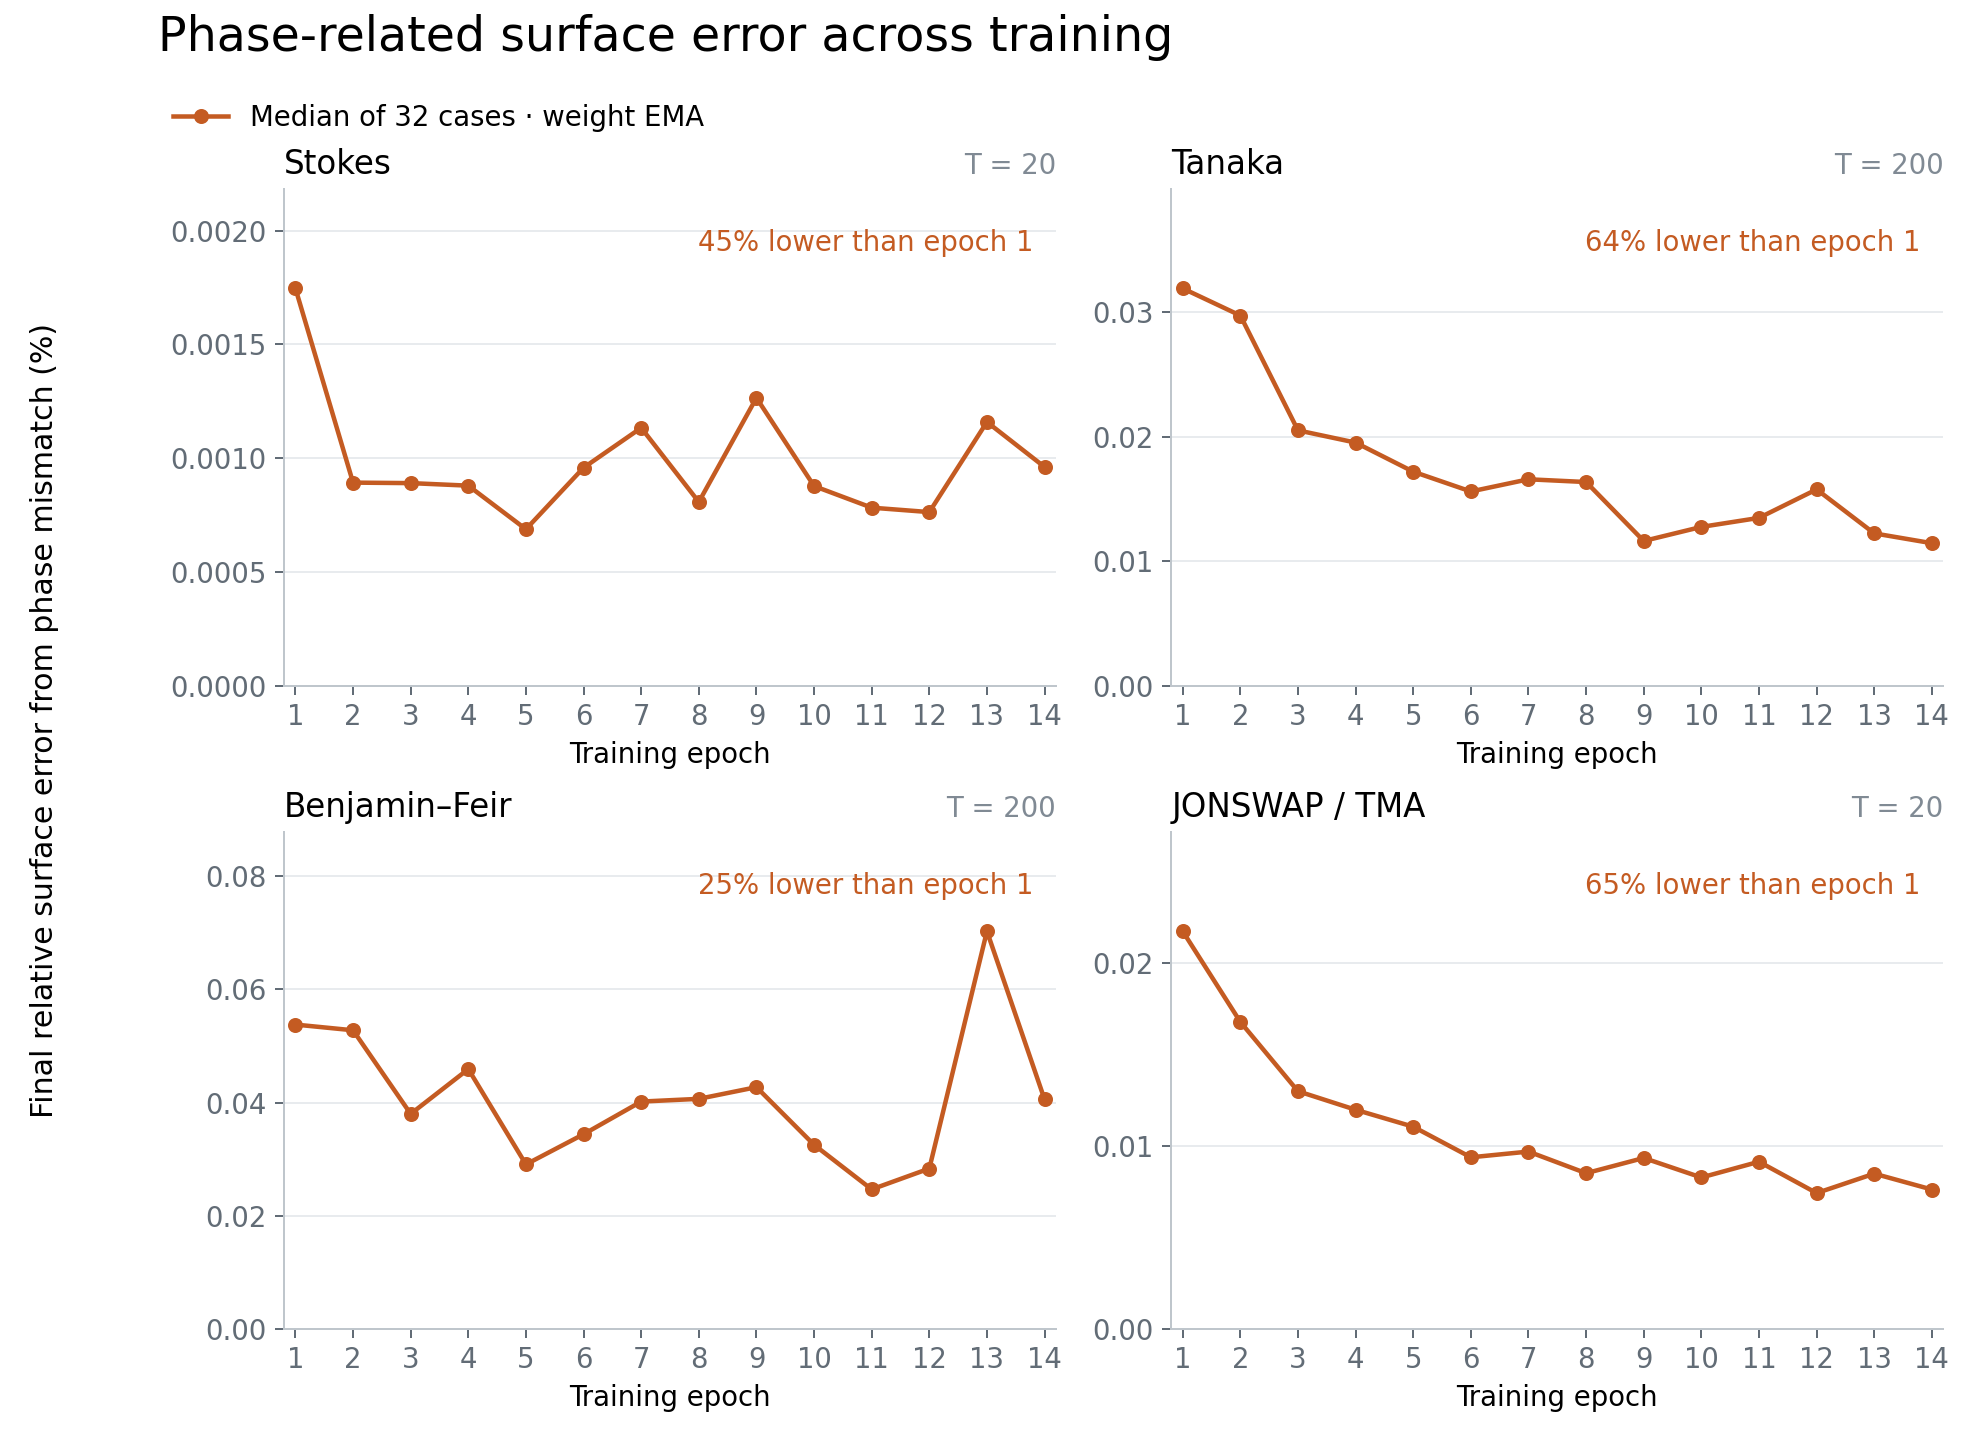
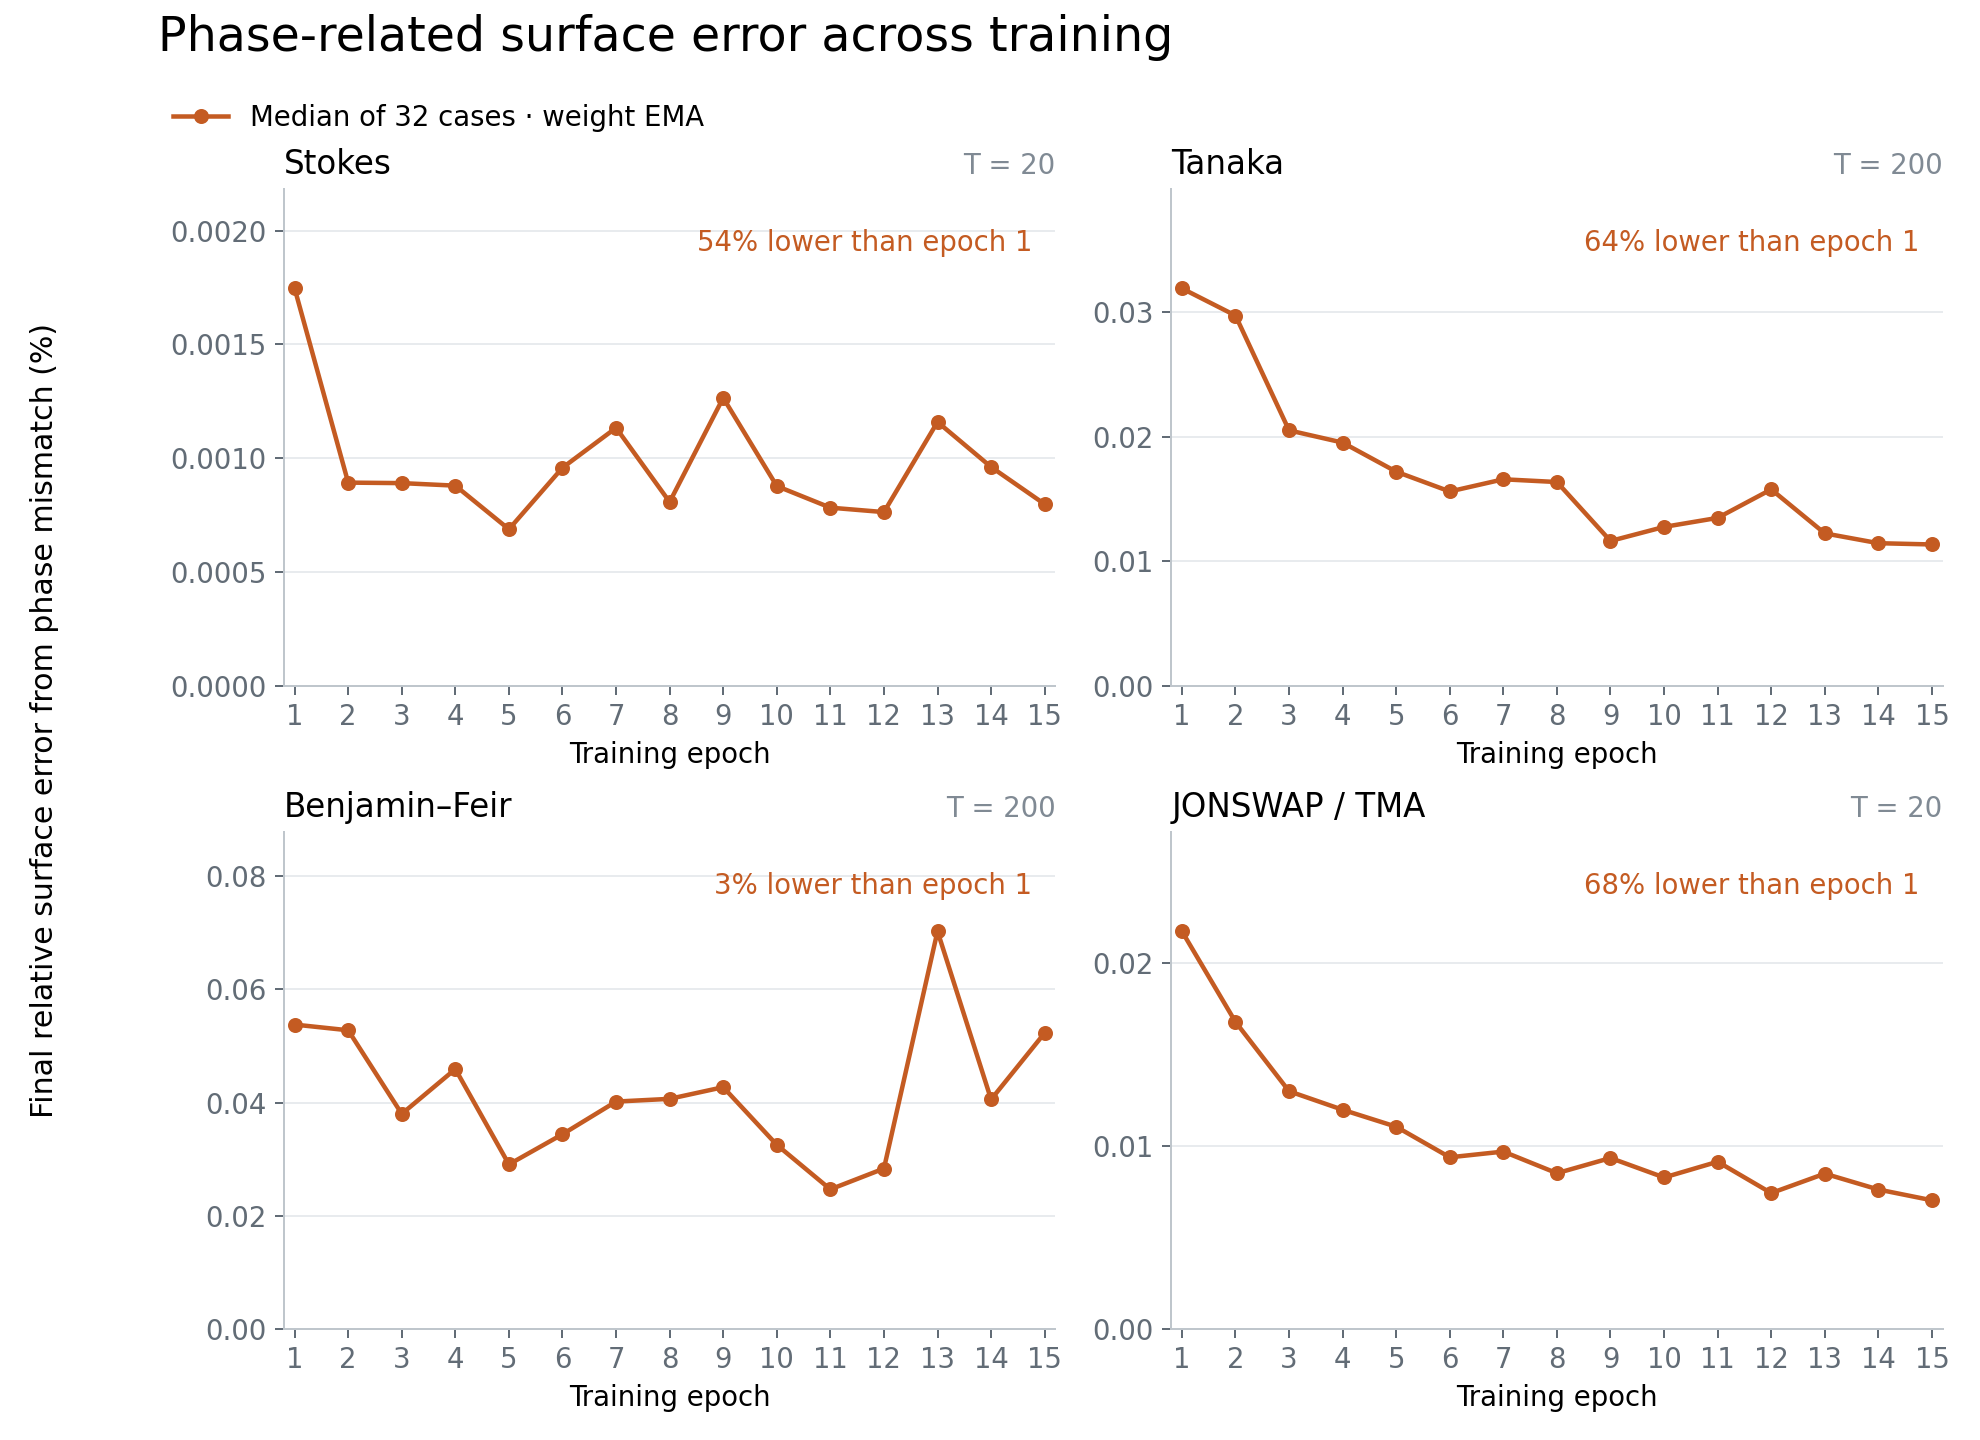
Record epoch15 EMA evaluation and extend phase-training plot

diff --git a/paper-plots/plot_phase_diagnostics.py b/paper-plots/plot_phase_diagnostics.py
@@ -75,7 +75,7 @@ def main() -> None:
         "pdf.fonttype": 42, "ps.fonttype": 42,
     })
     if args.phase_training:
-        epochs = np.arange(1, 15)
+        epochs = np.arange(1, 16)
         evaluations = [
             ROOT / "outputs/c27_phase1_lr8_momentum_half_ema995_grad05_adam05_b2099_batch16_hd04_band128_nested1_gamma32_full_20261012/eval_fast_weight_ema_nestedfused_contextbatch",
             *(ROOT / f"outputs/c27_nested_b16_ema_low_lr_continue_20261014/eval_epoch{epoch}_weight_ema" for epoch in (2, 3)),

diff --git a/experiments/experiments-2026-10-15.md b/experiments/experiments-2026-10-15.md
@@ -1,6 +1,6 @@
 # Experiments — 2026-10-15
 
-Epoch 14 of the approved low-LR continuation completed; epoch 15 resumed automatically. Epoch 14 recovers from epoch13 but remains7.18% worse in paired surface error than retained epoch10. Tanaka/JON improve versus10 while Stokes/BF regress. Best EMA validation is14, with patience0/5. Figure22 includes epochs1–14; Figure12c uses epoch10 EMA accuracy with unchanged current-path Ada timings. Figure12 retains epoch7 Ada accuracy; Blackwell and A100 retain their previous measurements.
+Epoch 15 of the approved low-LR continuation completed; epoch 16 resumed automatically. Epoch 15 is 13.8% worse in paired surface error than retained epoch 10, chiefly from Benjamin–Feir, despite a new best EMA validation score. Best validation is 15, with patience 0/5. Figure 22 includes epochs 1–15; Figure 12c keeps epoch-10 EMA accuracy with unchanged current-path Ada timings. Figure 12 retains epoch-7 Ada accuracy; Blackwell and A100 retain their previous measurements.
 
 | Date | Time | File / Variant | Motivation | What Tried / Evidence | Correctness | Timing | Decision |
 | --- | --- | --- | --- | --- | --- | --- | --- |
@@ -36,3 +36,4 @@ Epoch 14 of the approved low-LR continuation completed; epoch 15 resumed automat
 | 2026-10-15 | 16:42 | Figure 12c: best evaluated EMA epoch | User requested the Ada runtime/error plot use the best epoch rather than the previous epoch7. | Replaced only the candidate accuracy and legend with epoch10 primary weight EMA. Independently confirmed it remains the best completed checkpoint through13 by pooled paired terminal eta error across128 cases; epoch14 evaluation not yet available. Fixed plotted-case errors percent S/T/BF/J: .000177626729/.297087219721/.045160528829/.028172284875. Kept measured same-path B1 times1.555725211/15.307572914/15.304878696/1.560811040 seconds, classical points and old rollout-supervised overlay. | Timed IDs match classical and saved epoch10 evaluation cases. Architecture/inference path unchanged. PNG visually inspected; README render command updated; no plotter or training edits. These remain single-case points, not family medians. | CPU rendering and verification16:41–16:42; no new rollout, GPU or timing run. | MERGE Figure12c PNG/PDF and documentation. Figure12 and other figures unchanged; retain epoch10 as aggregate rollout best. |
 | 2026-10-15 | 16:55 | Epoch14 primary-EMA evaluation and Figure22 refresh | Test whether continued training recovers the epoch13 phase regression and improves on retained epoch10, without changing the approved recipe. | Validation selection1.437841920e-5 is4.406% below previous best12; retained-data1.260643908e-5 improves4.500%. All128 EMA rollouts complete. Terminal eta medians/p95 percent S/T/BF/J: .000964155/.012494488, .017127647/.158671737, .043149256/.132597735, .009713497/.076648873. Pooled paired eta/xi14/10=1.071808/1.066952 (70/72 wins),14/13=.732605/.720642 (90/94 wins),14/1=.541728/.536696 (102/101 wins). Eta14/M2=.253227 (93wins),14/M3=1.067091 (65wins). Family eta14/10=1.526073/.758352/1.305560/.873424: Tanaka/JON improve, Stokes/BF regress. Tanaka14/M3=.819947, though only15/32 eta wins. Tracked Tanaka3687197/3686647 improve to.396071/.105992%. Whole-trajectory eta14/10=1.085589,14/1=.542081. Phase14/10=1.100994 versus amplitude.913069; family phase14/10=1.543652/.796089/1.335776/.895147. Stokes amplitude stays1.001721 while phase worsens. Figure22 extends through14; phase medians percent .000961534/.011451827/.040542151/.007606626, all lower than13. | All128 ordered IDs/times/depths match; valid finite references/predictions, minimum fluid depth.011970300584. Independent terminal norms agree within1.99e-13; root independently reproduces pooled/family eta, trajectory and exact sine-half-angle phase split, including phase squared plus amplitude squared equals total squared error. Latest/best/primaryEMA export14 counters10322130; all52 EMA arrays match full-state shadows. History and both EMAs preserved; LR8e-6, gradientEMA.5, weightEMA.995 unchanged. Best validation14,patience0/5. Figure22 inspected; Python compilation and diff checks pass. | Training02:00; validation/export16:49; all EMA rollouts complete and epoch15 resumed16:53 with restoredstep10322130. CPU audits/render16:53–16:55. | MERGE Figure22/log refresh; retain epoch10 as overall rollout best and leave Figure12c on10. Epoch14 is a substantial recovery, not a new aggregate rollout best. Continue approved training and per-epoch EMA evaluation; no new arm, raw evaluation, GPU timing or setting change. Sustained60–120-epoch transfer remains unproven. |
 | 2026-10-15 | 17:56 | Recover approved hero-run epoch-boundary supervision | Preserve the approved continuation/evaluation schedule after the monitoring session disappeared, without duplicating or interrupting active training. | At17:51 the monitor wait was interrupted; exec cell5135 and launcher session95505 were subsequently missing. Host inspection found the epoch15 trainer2103399 still running on GPU0 under uv2103396, now parented toPID1; no launcher or evaluator remained. Restored only boundary supervision at17:55 in tmux session dno-hero-continuation-20261015 (pane2229602). The inline command reuses the existing launcher environment and loop body, waits for both original processes to exit or become zombies, requires latest and primaryEMA metadata at15, skips training at15, evaluates its128 EMA trajectories, applies existing patience5, then continues unchanged at16 through60. | Bash syntax check and independent host/process/command audit passed. Exactly one trainer; recovery monitor alive waiting on sleep15. Same GPU0 UUID, memory cap, full-state resume, LR, losses, optimizer and EMAs. No checkpoint copying/reset, new experiment, signal, training restart, code file edit or interference with GPU1. Original trainer continued from47% to50% during recovery. | Read-only diagnosis17:52–17:54; monitor restored17:55 and verified17:55–17:56. Active epoch15 uninterrupted. | KEEP recovered boundary supervision. Session95505 is no longer usable; monitor through the live tmux pane and host PIDs. Epoch10 remains aggregate rollout best; epoch15 EMA evaluation is still pending. |
+| 2026-10-15 | 19:07 | Epoch 15 primary-EMA evaluation and Figure 22 refresh | Test whether continued low-LR training sustains the first-epoch gains and improves on the retained epoch-10 rollout checkpoint. | EMA validation selection 1.408588006e-5 improves 2.035% versus 14; retained data 1.233876548e-5 improves 2.123%, with all four family contributions lower. All 128 EMA rollouts complete. Terminal eta medians/p95 percent S/T/BF/J: .000871070/.012501966, .013845909/.293824493, .053639610/.126279560, .009676703/.071478121. Paired pooled eta/xi 15/10=1.138185/1.147098 (61/59 wins), 15/14=1.061930/1.075116 (63/63), 15/1=.575277/.577011 (96/94). Eta/M2=.268910 (96 wins), eta/M3=1.133177 (64). Family eta15/10=1.051315/1.071242/1.702359/.875346: BF is the main regression; JON improves. Whole-trajectory eta15/10=1.129852, 15/1=.564183. Phase15/10 pooled=1.143937 versus amplitude=1.064986; family phase ratios .921201/1.202937/1.761899/.877060. Phase medians percent .000798205/.011350940/.052289985/.007017700; versus14, S/T/J medians fall17.0/.9/7.7%, while BF rises29.0%. Figure22 extends through15; Figure12c remains on10. | All128 ordered IDs/times/depths match; all truth-valid, saved eta/xi/q finite, no failure flags, minimum fluid depth .011970300376. Independent terminal eta/xi/q norms reproduce saved errors exactly. Root independently reproduces eta ratios, whole-trajectory errors and the direct sine-half-angle Fourier phase decomposition; phase squared plus amplitude squared equals total squared error. Latest/best/export all15; full-state, gradientEMA, Adam, LR, export and best counters11059425=15*737295; all52 EMA arrays/40384 scalars exactly match. LR8e-6, gradientEMA.5, weightEMA.995 and activation589836 unchanged; best validation15, patience0/5. Plot visually inspected; compilation and diff checks pass. | Training02:04, completed18:57; EMA validation/export19:00; 128-rollout evaluation19:00–19:04. Recovered tmux supervisor successfully launched epoch16 at19:04, preserving full state. CPU audits and plot refresh19:01–19:07. | MERGE Figure22 and log refresh; retain10 as aggregate rollout best. Epoch15 preserves a substantial gain versus1 but is13.8% worse than10, despite better validation. Keep approved continuation/EMA evaluations unchanged; no new arm, raw evaluation, timing measurement or setting change. Sustained60–120-epoch transfer remains unproven. |

diff --git a/paper-plots/README.md b/paper-plots/README.md
@@ -435,7 +435,7 @@ UV_CACHE_DIR=/tmp/codex-uv-cache uv run --no-sync paper-plots/plot_neural_advant
 
 Figure 12c compares the Ada classical solver, epoch-10 EMA candidate, and older
 rollout-supervised network. Epoch 10 is the best overall evaluated checkpoint
-through epoch 14 by pooled paired terminal surface error across the 128 cases;
+through epoch 15 by pooled paired terminal surface error across the 128 cases;
 each panel still displays the fixed timed case, not the family median. Runtime
 measurements are unchanged for the same inference path. It omits the RMS/context
 and spectral-DNO models and historical timing annotations:
@@ -760,15 +760,16 @@ OPENBLAS_NUM_THREADS=1 OMP_NUM_THREADS=1 UV_CACHE_DIR=/tmp/dno-uv-cache \
 [PNG](figures/22-phase-error-vs-training.png) / [PDF](figures/22-phase-error-vs-training.pdf)
 
 Terminal Fourier-phase error for primary weight-EMA checkpoints at every epoch
-from 1 through 14, using the same 32 cases per family. The y axis uses Figure 20's
+from 1 through 15, using the same 32 cases per family. The y axis uses Figure 20's
 relative-error magnitude, not the percentage of total squared error. Each point
 is the median of `100*sqrt(phase_energy/reference_energy)` at the final rollout
-time. At epoch 14, the reductions versus epoch 1 are 44.9%, 64.1%, 24.6% and
-65.0% for Stokes, Tanaka, Benjamin–Feir and JONSWAP/TMA. All fourteen measurements
-are shown; the curves are not monotonic. From epoch 13 to 14, all four medians
-decrease, by 17.1%, 6.4%, 42.3% and 10.2%, respectively. Epoch-14 median errors
-are 0.000961534%, 0.0114518%, 0.0405422% and 0.00760663% in the family order
-above; the BF rebound does not recover its smaller epoch-11/12 errors.
+time. At epoch 15, the reductions versus epoch 1 are 54.3%, 64.4%, 2.8% and
+67.7% for Stokes, Tanaka, Benjamin–Feir and JONSWAP/TMA. All fifteen measurements
+are shown; the curves are not monotonic. From epoch 14 to 15, the Stokes, Tanaka
+and JONSWAP/TMA medians decrease by 17.0%, 0.9% and 7.7%, while Benjamin–Feir
+increases by 29.0%. Epoch-15 median errors are 0.000798205%, 0.0113509%,
+0.0522900% and 0.00701770% in the family order above. These are family medians;
+epoch 10 remains best by pooled paired terminal surface error across all cases.
 
 ```sh
 OPENBLAS_NUM_THREADS=1 OMP_NUM_THREADS=1 UV_CACHE_DIR=/tmp/dno-uv-cache \

diff --git a/EXPERIMENTS.md b/EXPERIMENTS.md
@@ -33,11 +33,11 @@ could not be recovered at all are in
 
 ## Dated logs
 
-97 files, 1610 rows.
+97 files, 1611 rows.
 
 | Date | Rows | File | Size |
 | --- | --- | --- | --- |
-| 2026-10-15 | 32 | [`experiments/experiments-2026-10-15.md`](experiments/experiments-2026-10-15.md) | 54 KB |
+| 2026-10-15 | 33 | [`experiments/experiments-2026-10-15.md`](experiments/experiments-2026-10-15.md) | 56 KB |
 | 2026-10-14 | 16 | [`experiments/experiments-2026-10-14.md`](experiments/experiments-2026-10-14.md) | 38 KB |
 | 2026-10-13 | 8 | [`experiments/experiments-2026-10-13.md`](experiments/experiments-2026-10-13.md) | 14 KB |
 | 2026-10-12 | 57 | [`experiments/experiments-2026-10-12.md`](experiments/experiments-2026-10-12.md) | 125 KB |
